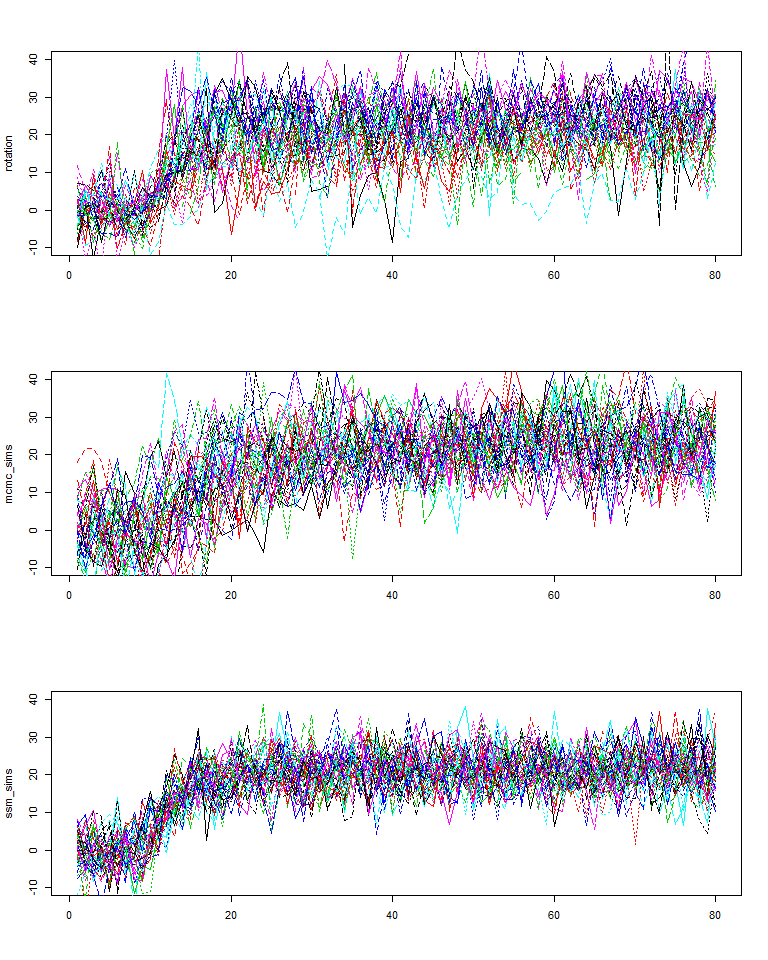
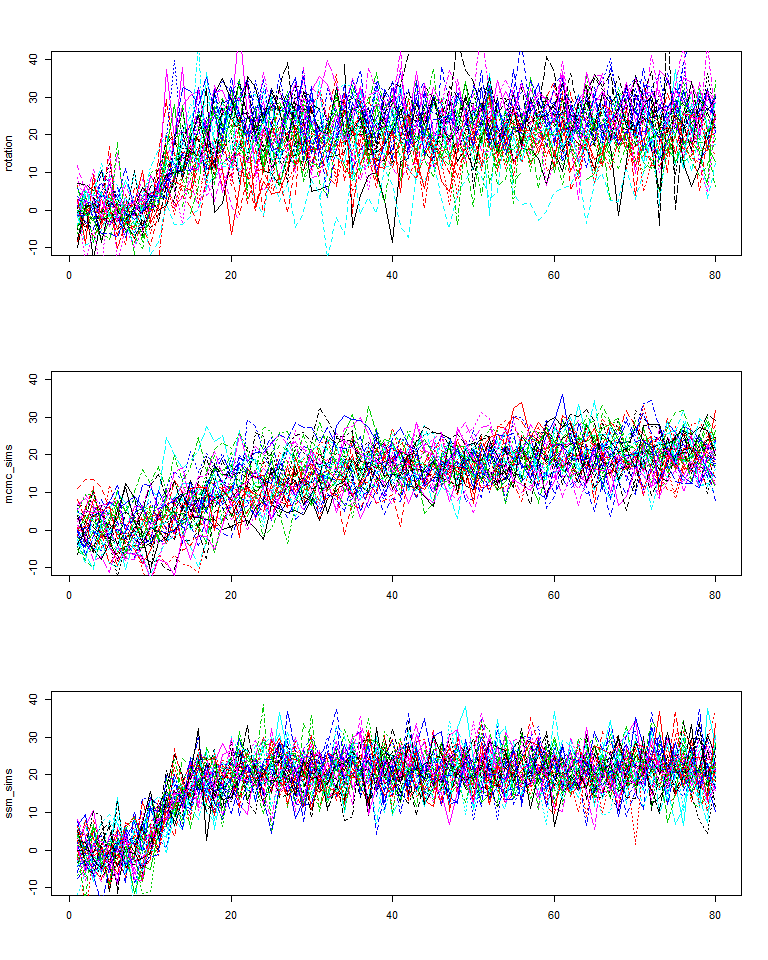
Update readme

Changed region(s): [[0.0938, 0.375, 0.9375, 0.5938]]

diff --git a/README.md b/README.md
@@ -18,7 +18,7 @@ mcmc_sims <- replicate(n = 40,
                        expr = simulate_mcmc(optimal = c(rep(0, 8), rep(30, 72)), 
                                             cost_width = 6,
                                             forget_rate = 0.85,
-                                            proposal_variance = 6.5))
+                                            proposal_variance = 4))
 ssm_sims <- replicate(n = 40,
                       expr = simulate_ssm(optimal = c(rep(0, 8), rep(30, 72)), 
                                           learn_rate = 0.15,
@@ -48,3 +48,26 @@ matplot(ssm_sims, type = 'l', ylim = c(-10, 40))
 ``` r
 par(mfrow = c(1, 1))
 ```
+
+``` r
+long_mcmc <- reshape2::melt(mcmc_sims)
+long_ssm <- reshape2::melt(ssm_sims)
+long_data <- reshape2::melt(rotation)
+
+ggplot(long_mcmc, aes(x = Var1, y = value)) + stat_binhex(binwidth = c(2, 3)) + ylim(c(-20, 50))
+```
+
+![](README-unnamed-chunk-2-1.png)
+
+``` r
+ggplot(long_ssm, aes(x = Var1, y = value)) + stat_binhex(binwidth = c(2, 3)) + ylim(c(-20, 50))
+```
+
+![](README-unnamed-chunk-2-2.png)
+
+``` r
+ggplot(long_data, aes(x = obs, y = value)) + stat_binhex(binwidth = c(2, 3)) + ylim(c(-20, 50))
+#> Warning: Removed 101 rows containing non-finite values (stat_binhex).
+```
+
+![](README-unnamed-chunk-2-3.png)
